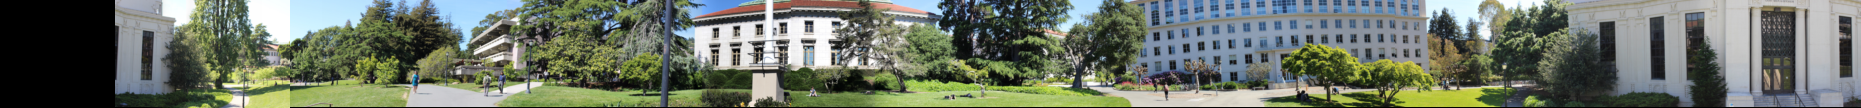
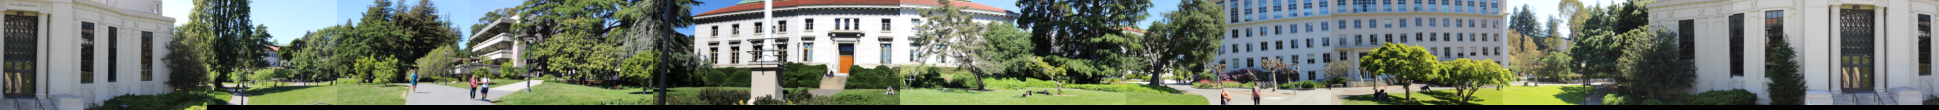
some fixes

diff --git a/main.py b/main.py
@@ -163,7 +163,7 @@ def calcImagePyramid(img, threshold=30, levels=None, resize="nearest"):
             iterations += 1
     return imgs
     
-cone_height = 0.5
+cone_height = 0.25
 class Panorama:
     def __init__(self):
         print "\nCS 284B Final Project: Panoramas"
@@ -182,7 +182,7 @@ class Panorama:
     def coneMappingIndices(self, initial_indices, focal_length, center, scaling):
         new_x = focal_length * np.tan((initial_indices[1] - center[1]) / scaling)
         w = np.sqrt(focal_length**2 + new_x**2)
-        new_y = cone_height * w * (initial_indices[0] - center[0]) / (cone_height * scaling - (initial_indices[0] - center[0]))
+        new_y = cone_height * w * (initial_indices[0] - center[0]) / (cone_height * scaling - (initial_indices[0] - center[0])) * 2
         return (new_y, new_x)
 
     def warpImage(self, image, focal_length, mapping, scaling=None):
@@ -403,7 +403,7 @@ class Panorama:
         poisson = PoissonSolver()
         colors = []
         for i in range(3):
-            output = poisson.poisson_quad(src[:,:,i], dest[:,:,i], (h, shift))
+            output = poisson.poisson_quad_opt(src[:,:,i], dest[:,:,i], (h, shift))
             colors.append(output)
         output_image = np.zeros((colors[0].shape[0], colors[0].shape[1], 3))
         for i in range(3):
@@ -481,7 +481,7 @@ class Panorama:
         start_panorama = panorama
         offsets = []
         print "Matching images together"
-        for img_name in img_names[1:]:
+        for img_name in img_names[1:-1]:
             print img_name
             image = readimage(img_name)
             mapped = self.warpImage(image, focal_length, mapping)[80:-80]
@@ -508,12 +508,14 @@ class Panorama:
             else:
                 raise ValueError("Align method not recognized.")
         #Blend
+        publishImage(panorama)
         panorama = start_panorama
         offsets = np.array(offsets)
         cropIndex = feature_detector.cropPanoramaToWrap(imgs[np.argmin([0] + offsets[:,1])], imgs[np.argmax(offsets[:,1])], np.max(offsets[:,1]))
         if blend_method != "poisson_quad":    
             print "Blending"
             for img, offset in zip(imgs, offsets):
+                
                 if blend_method == "poisson":
                     panorama = self.poisson_pyramid(img, panorama, offset[0], offset[1])
                 elif blend_method == "mixed":
@@ -527,8 +529,8 @@ class Panorama:
                 end_one = start_one + img.shape[0]
                 end_two = start_two + panorama.shape[0]
                 panorama = panorama[max(start_one, start_two):min(end_one, end_two)]
+                publishImage(panorama)
             print "Done blending"
-            publishImage(panorama)
         else:
             publishImage(panorama)
         if wrap == True:
@@ -557,10 +559,10 @@ class Panorama:
         # self.runAlgorithm("synthetic", 330, self.cylindricalMappingIndices)
         # self.runAlgorithm("vlsb", 6600.838, self.cylindricalMappingIndices)
         # self.runAlgorithm("woods", 6600.838, self.cylindricalMappingIndices)
-        # self.runAlgorithm("vlsb", 1170, self.cylindricalMappingIndices, "features", "pyramid")
+        self.runAlgorithm("vlsb", 1170, self.cylindricalMappingIndices, "features", "pyramid")
         # self.runAlgorithm("vlsb", 1167, self.cylindricalMappingIndices, "features", "poisson")
         #self.runAlgorithm("distinct", 1167, self.coneMappingIndices, "convolve", "mixed", wrap=False)
-        self.runAlgorithm("vlsb", 1167, self.cylindricalMappingIndices, "features", "poisson_quad")
+        #self.runAlgorithm("vlsb", 1167, self.cylindricalMappingIndices, "features", "poisson_quad")
 
         # print "\nRunning Spherical Panorama Algorithm:"
         # self.runAlgorithm("synthetic", 1320, self.sphericalMappingIndices)
@@ -1148,17 +1150,19 @@ if __name__ == "__main__":
     output_dir = 'output'
     if not os.path.exists(output_dir):
         os.makedirs(output_dir)
-    #Panorama().runMain()
-    #print ""
+    Panorama().runMain()
+    print ""
     ### Code to test Poisson(): ###
-    print "Poisson now: "+time.ctime()  # TODO: Remove after tested
-    dest = readimage("data/vlsb/IMG_1881.JPG")
-    source = readimage("data/vlsb/IMG_1879.JPG")
-    panorama = Panorama()
-    dest = panorama.warpImage(dest, 1167, panorama.cylindricalMappingIndices)[80:-80]
-    source = panorama.warpImage(source, 1167, panorama.cylindricalMappingIndices)[80:-80]
-    dest = img_as_float(misc.imresize(dest, 0.125))
-    source = img_as_float(misc.imresize(source, 0.125))
+    #print "Poisson now: "+time.ctime()  # TODO: Remove after tested
+    ##dest = readimage("data/vlsb/IMG_1881.JPG")
+    #source = readimage("data/vlsb/IMG_1881.JPG")
+    #panorama = Panorama()
+    #dest = panorama.warpImage(dest, 1167, panorama.cylindricalMappingIndices)
+    #source = panorama.warpImage(source, 1167, panorama.coneMappingIndices)
+    #dest = img_as_float(misc.imresize(dest, 0.25))
+    # source = img_as_float(misc.imresize(source, 0.25))
+    # displayImage(source)
+    # displayImage(dest)
     #mask = np.ones((source.shape[0], source.shape[1]))
     #poisson = PoissonSolver()
     #for y in range(mask.shape[0]):
@@ -1167,19 +1171,19 @@ if __name__ == "__main__":
     #            mask[y, x] = 0
     #output_img = poisson.poisson(source[:,:,0], dest[:,:,0], mask, (50, 150), poisson.mixed_gradient)
     #output_img = panorama.poisson_pyramid(source, dest, 50, 150)
-    poisson = PoissonSolver()
+    #poisson = PoissonSolver()
     #h, shift = Panorama().pyramid_convolve(source[:,:,0], dest[:,:,0])
     #print h
     #print shift
-    red = poisson.poisson_quad_opt(source[:,:,0], dest[:,:,0], (0, 50))
-    green = poisson.poisson_quad_opt(source[:,:,1], dest[:,:,1], (0, 50))
-    blue = poisson.poisson_quad_opt(source[:,:,2], dest[:,:,2], (0, 50))
-    output_img = np.zeros((red.shape[0], red.shape[1], 3))
-    output_img[:,:,0] = red
-    output_img[:,:,1] = green
-    output_img[:,:,2] = blue
-    displayImage(output_img)
-    print "Done poisson: "+time.ctime()  # TODO: Remove after tested
+    #red = poisson.poisson_quad_opt(source[:,:,0], dest[:,:,0], (0, 50))
+    #green = poisson.poisson_quad_opt(source[:,:,1], dest[:,:,1], (0, 50))
+    #blue = poisson.poisson_quad_opt(source[:,:,2], dest[:,:,2], (0, 50))
+    #output_img = np.zeros((red.shape[0], red.shape[1], 3))
+    #output_img[:,:,0] = red
+    ##output_img[:,:,1] = green
+    #output_img[:,:,2] = blue
+    #displayImage(output_img)
+    #print "Done poisson: "+time.ctime()  # TODO: Remove after tested
     ##C Code to test pyramid blending
     #source = readimage("data/o-brien.jpg")[:,:,0]
     #dest = readimage("data/fishingscene.jpeg")[:,:,0]
